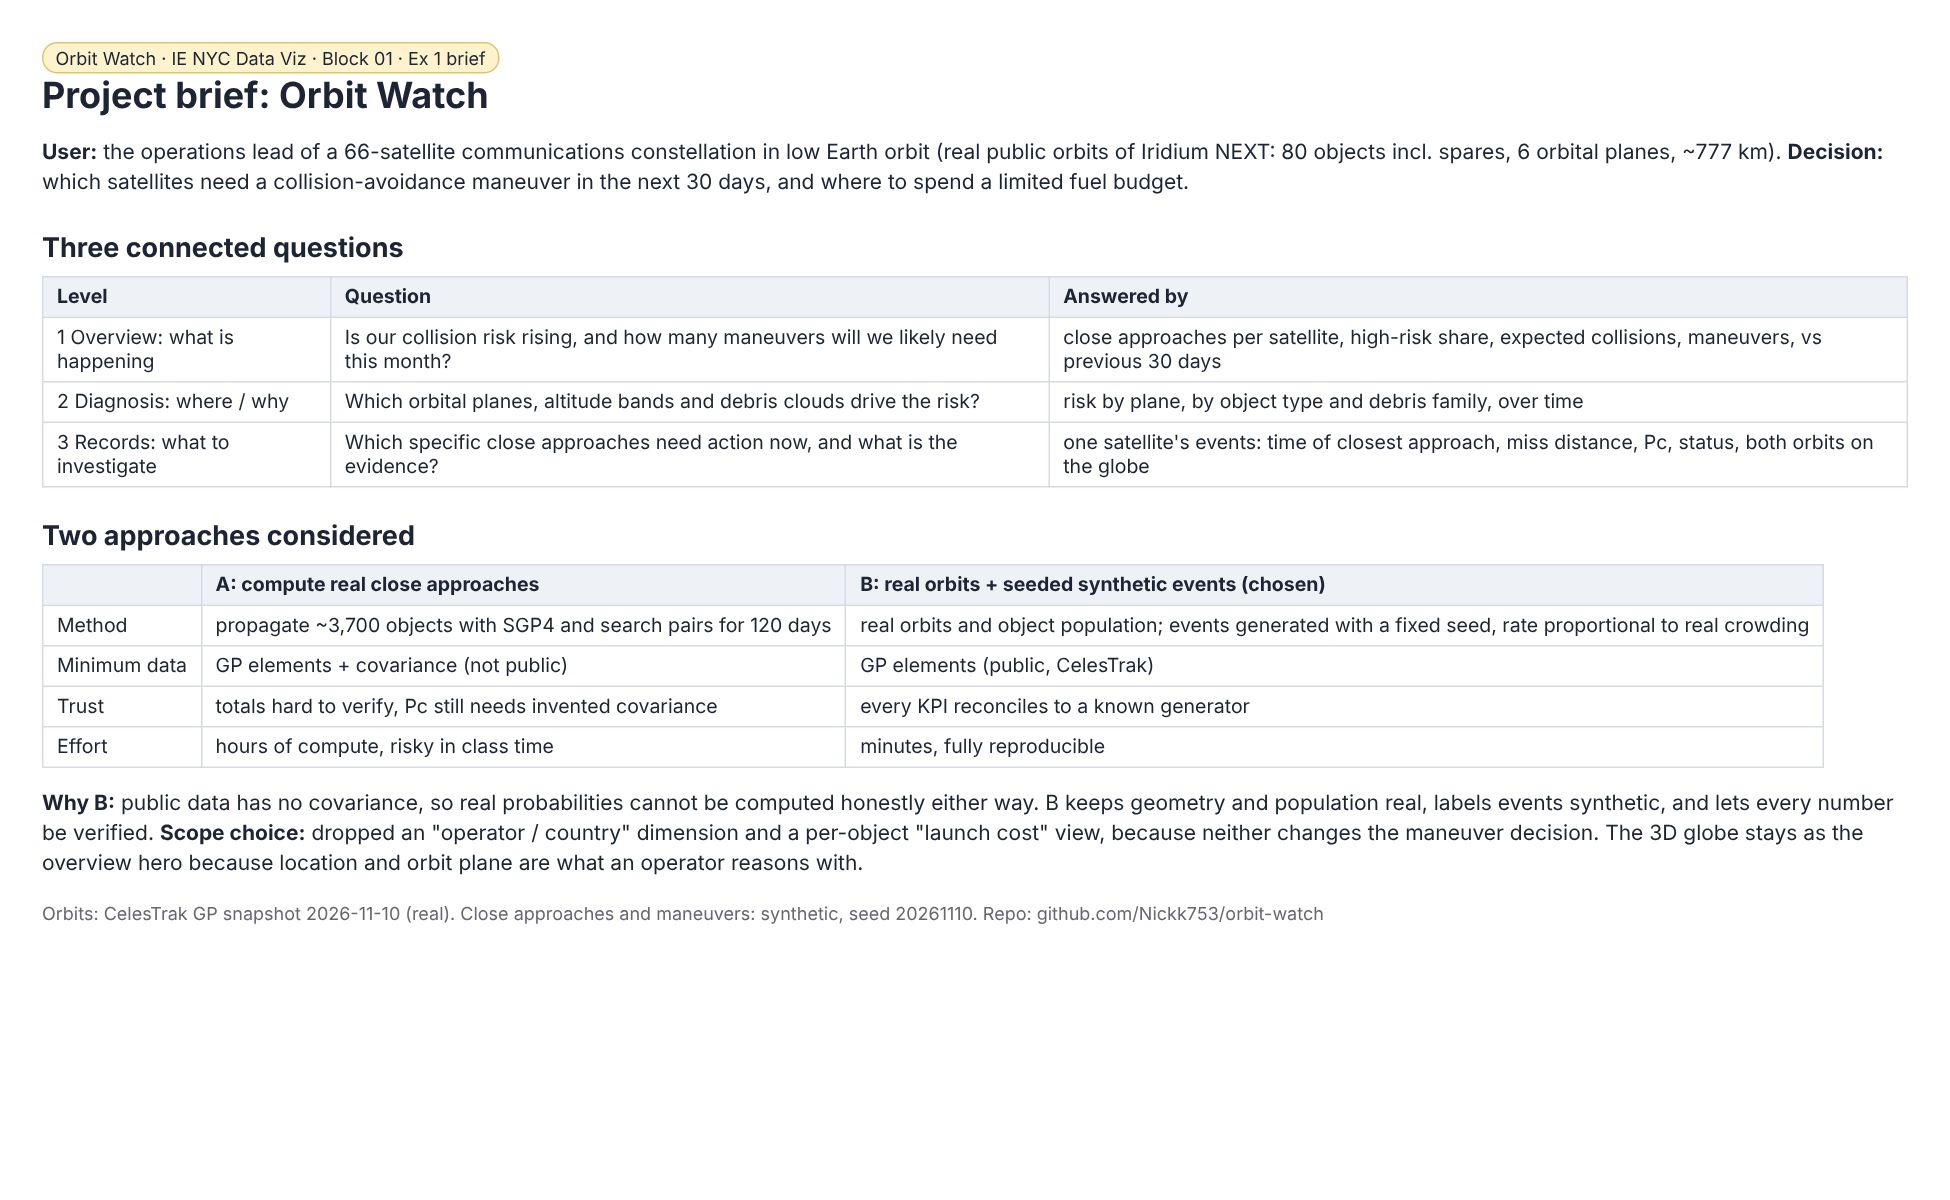
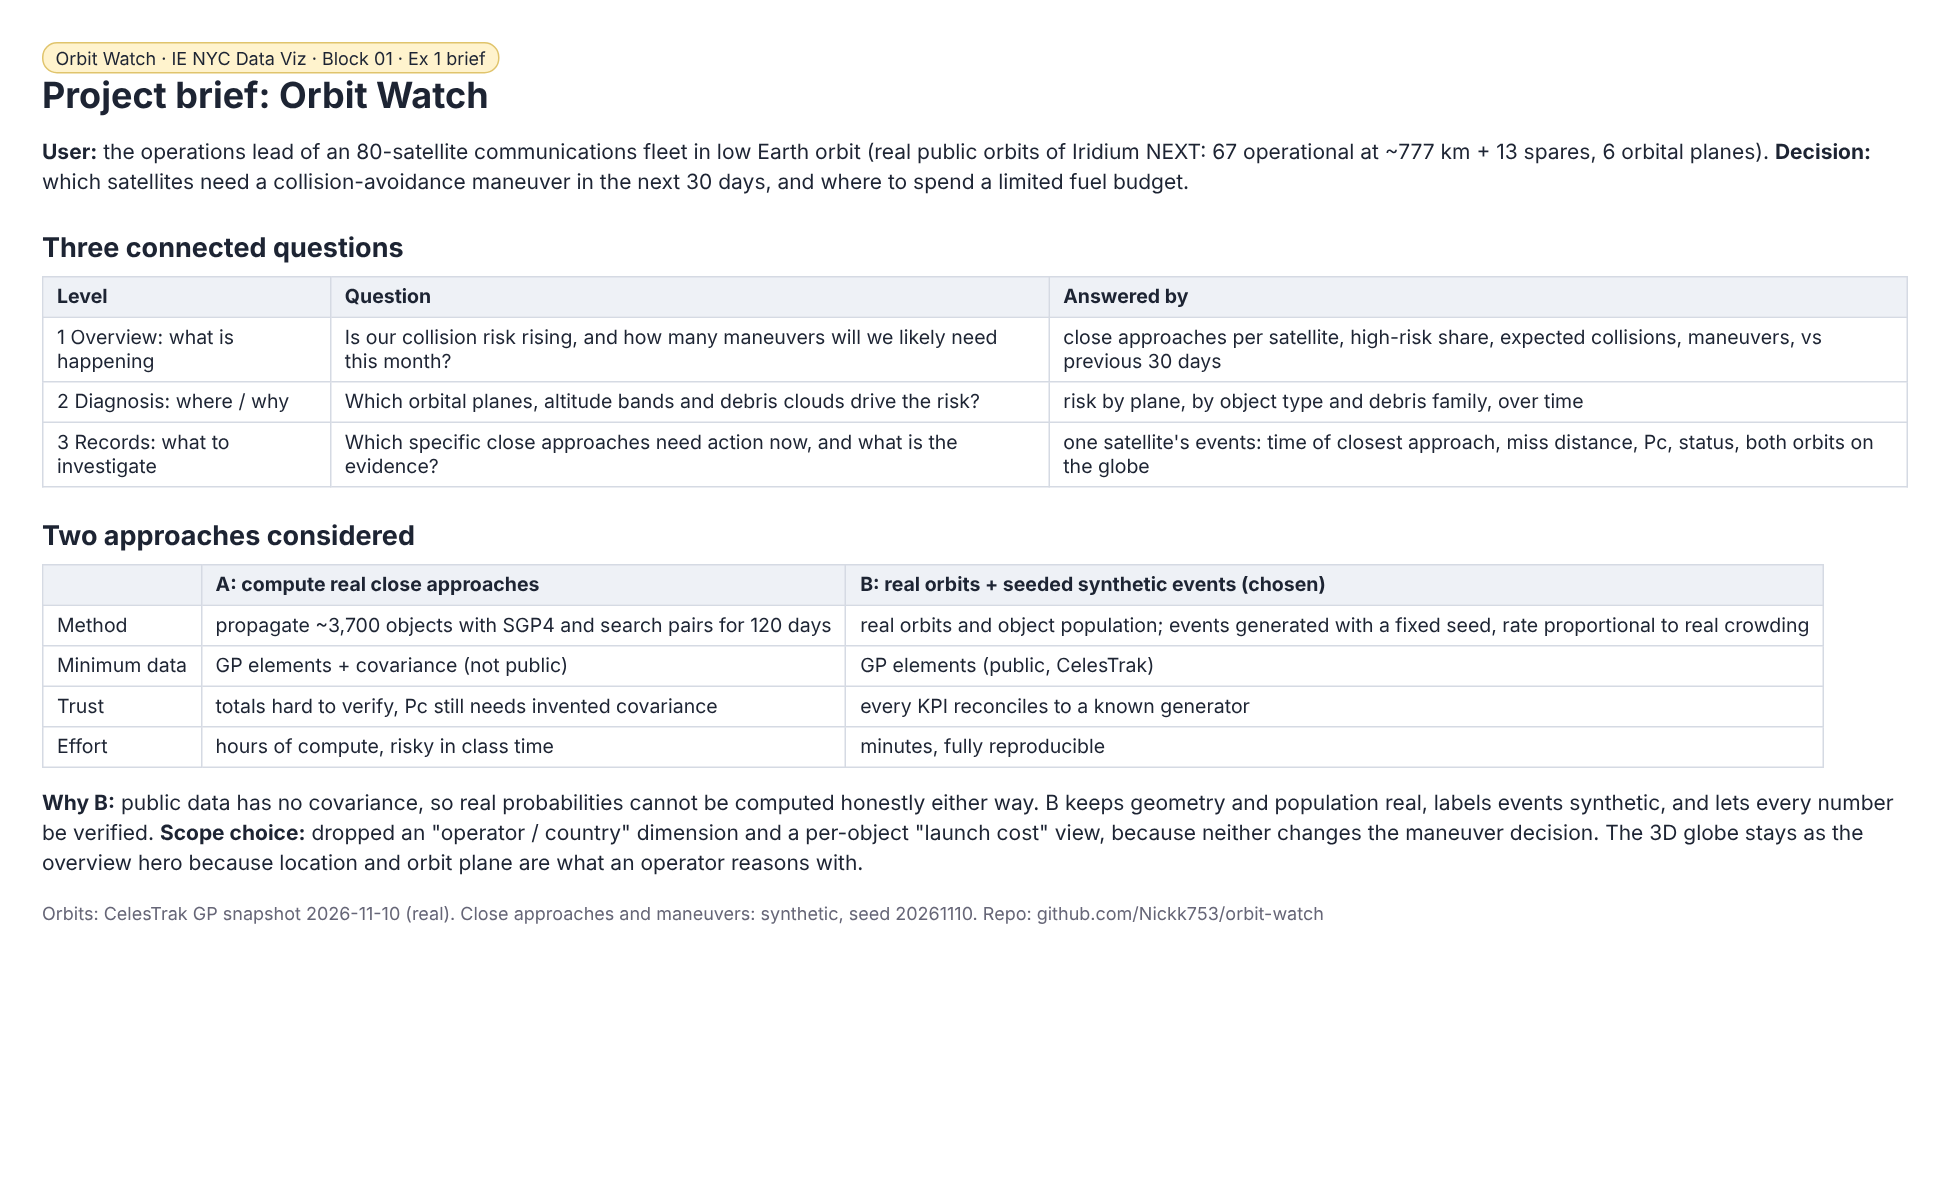
Fix fleet size in brief and evidence: 80 satellites (67 operational + 13 spares)
Claude-Session: https://claude.ai/code/session_01S9eTu5PdgoatDWQzbMk6sV

Changed region(s): [[0.1846, 0.1233, 0.9538, 0.1542]]

diff --git a/evidence/block01/block01-submission.md b/evidence/block01/block01-submission.md
@@ -5,7 +5,7 @@ App repo: https://github.com/Nickk753/orbit-watch
 ## Exercise 01: Choose a topic and a decision
 **Screenshot:** ex1_brief.png
 **Reasoning & evidence:**
-Topic: satellite collision risk. User: the operations lead of a 66-satellite LEO communications constellation (real Iridium NEXT orbits). Decision: which satellites need an avoidance maneuver in the next 30 days, and where to spend the fuel budget.
+Topic: satellite collision risk. User: the operations lead of an 80-satellite LEO communications fleet (real Iridium NEXT orbits: 67 operational + 13 spares, 6 planes). Decision: which satellites need an avoidance maneuver in the next 30 days, and where to spend the fuel budget.
 Three questions: (1) Is collision risk rising and how many maneuvers will we need this month? (2) Which orbital planes, altitude bands and debris clouds drive it? (3) Which specific close approaches need action now, and what is the evidence?
 Prompt excerpt: "Act as my analytics product partner. My topic is satellite collision risk, my user is a satellite operations lead and their decision is which satellites need avoidance maneuvers this month. Help me sharpen three questions spanning overview, diagnosis and record detail. Ask up to three clarifying questions, propose two approaches and the minimum data each needs. Do not build the app yet."
 Approaches: A = compute real close approaches with SGP4 (needs covariance that is not public, hours of compute, hard to verify). B = real orbits + seeded synthetic events (chosen: reproducible, every KPI reconciles).
@@ -37,3 +37,6 @@ I calculated each KPI directly from the source CSVs and through the Supabase mod
 Example: last 30 days, whole fleet: 1,258 close approaches, 5 high risk, high-risk share 0.40 % in both, difference 0.
 Discrepancy found and resolved: the first run differed by 0.01 on "close approaches per satellite" (15.72 vs 15.73). Numerator and denominator matched exactly. The cause was rounding (Python rounds half to even, Postgres half away from zero). I fixed the source calculation, not the KPI definition. Final result: all differences 0.
 Frozen contract: docs/data-dictionary.md, docs/semantic-model.png, docs/kpi-contract.md (v1.0), docs/validation.md.
+
+## App URL (use in every exercise's evidence links)
+https://orbit-watch-rosy.vercel.app

diff --git a/docs/brief.md b/docs/brief.md
@@ -1,6 +1,6 @@
 # Project brief: Orbit Watch
 
-**User:** the operations lead of a 66-satellite communications constellation in low Earth orbit (real public orbits of Iridium NEXT: 80 objects incl. spares, 6 orbital planes, ~777 km).
+**User:** the operations lead of an 80-satellite communications fleet in low Earth orbit (real public orbits of Iridium NEXT: 67 operational at ~777 km + 13 spares, 6 orbital planes).
 **Decision:** which satellites need a collision-avoidance maneuver in the next 30 days, and where to spend a limited fuel budget.
 
 ## Three connected questions
